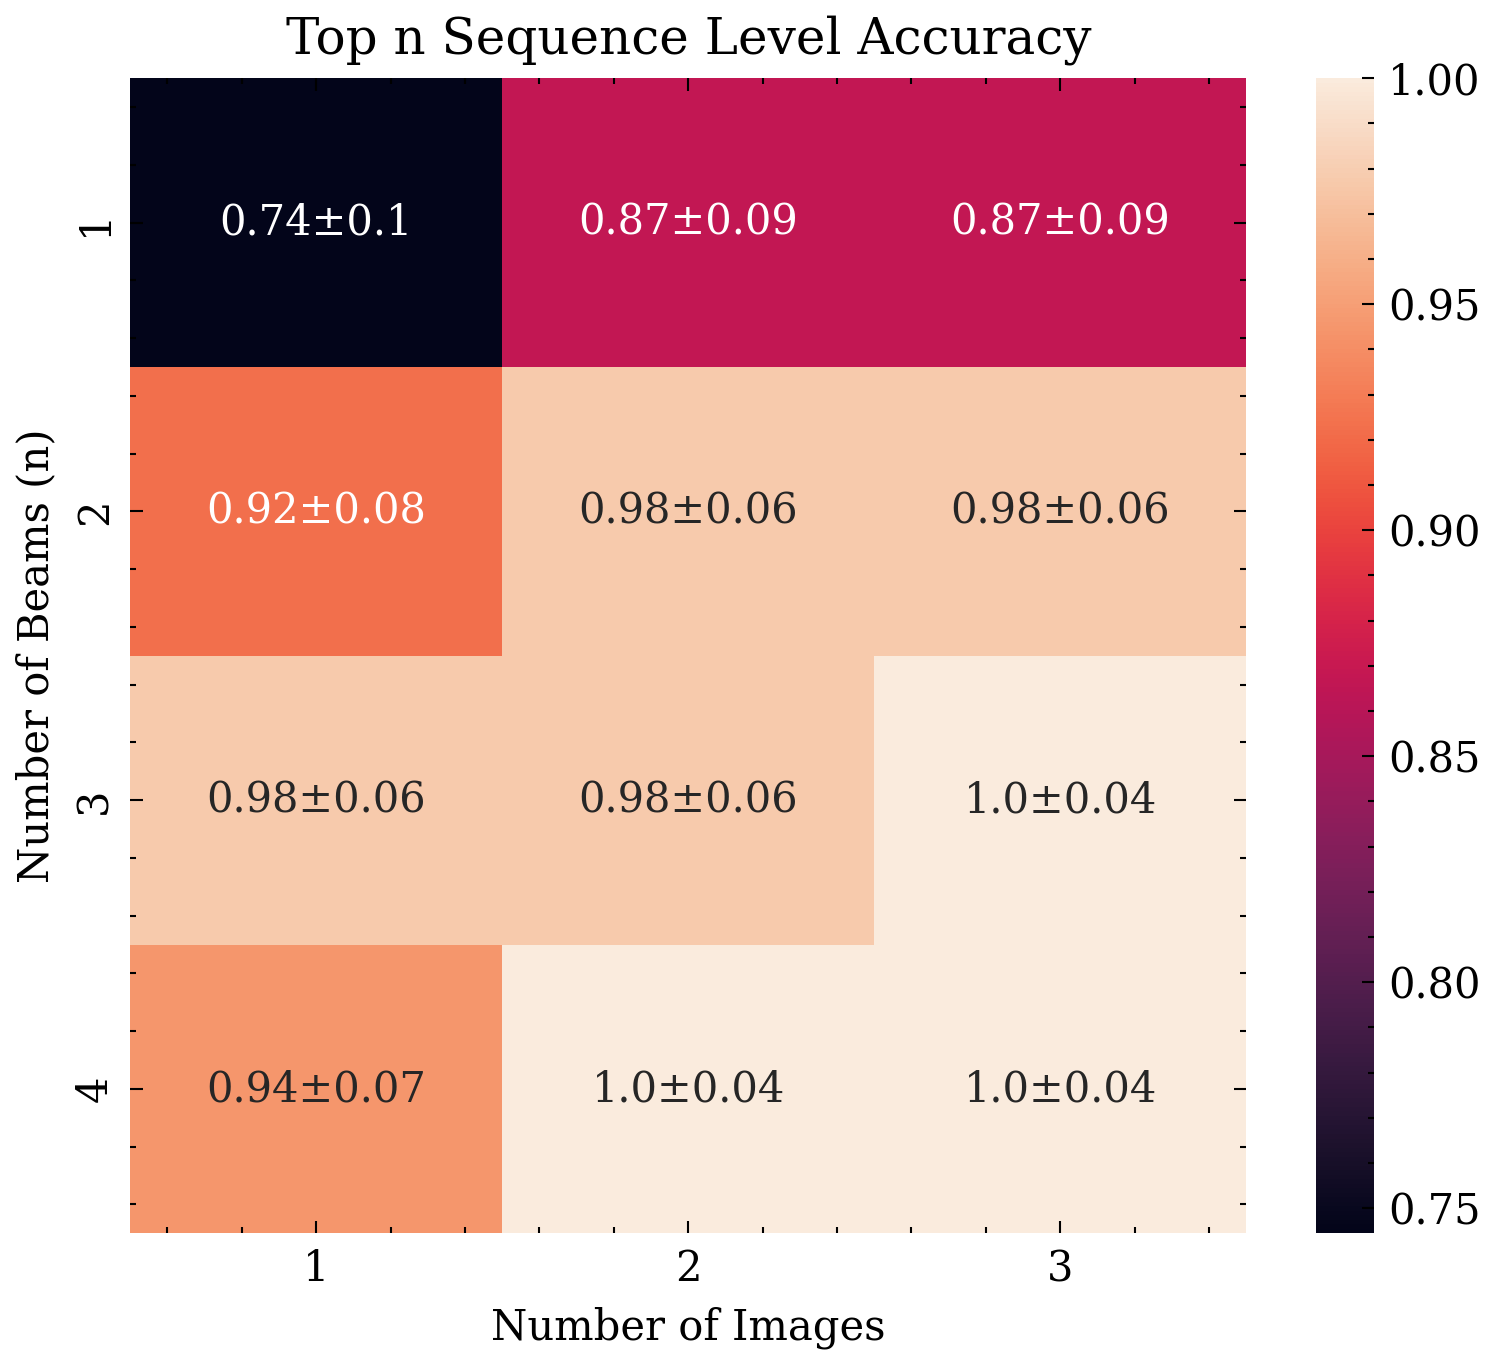
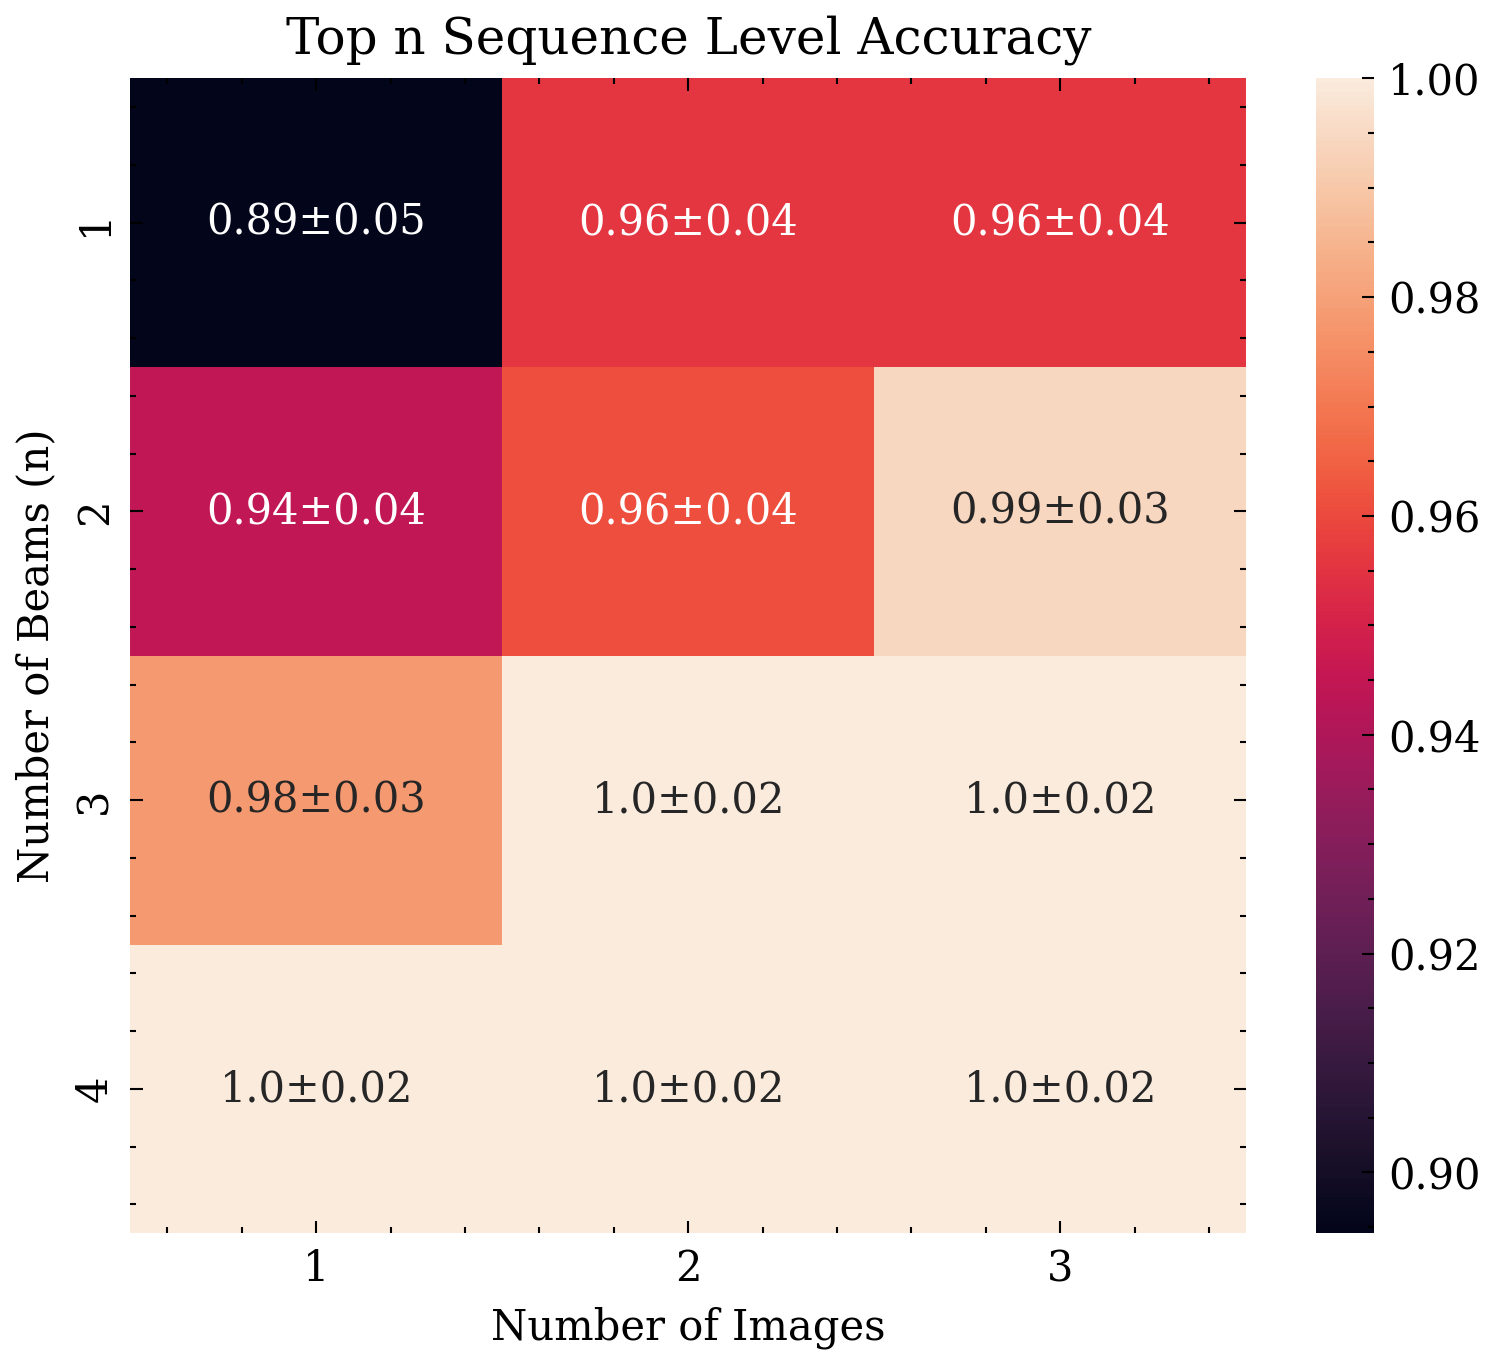
Updates from Overleaf

diff --git a/main.tex b/main.tex
@@ -53,9 +53,9 @@ To the best of our knowledge, there is no prior model that can convert a 3D mole
 \subsection{DECIMER.ai}
 In DECIMER.ai, the encoder is an EfficientNet-V2-M. EfficientNet is a type of convolutional neural network (CNN) with MBConv \autocite{tan_efficientnet:_2020} (a modified version of the inverted bottleneck from \autocite{mobilenet}) and Fused-MBConv \autocite{suyog_efficientnet-edgetpu:_2019} developed by training-aware neural architecture search (NAS). \autocite{swin_tran} \autocite{effv2} MBConvs have 1x1 point-wise and 3x3 depth-wise convolutional layers, which can yield better parameters and computational efficiency. \autocite{mobilenet} \autocite{effv2} However, they cannot fully utilize modern hardware accelerators. In Efficient-Net-V2, they proposed using regular 3x3 convolutional layers (Fused-MBConvs) to replace MBConvs for the early stages of the network. This results in better training time with small overheads of parameters and FLOPs. In an MBConv block used in Efficient-Net-V2, the image is first passed through a 1x1 convolutional layer to increase its channel numbers, then a squeeze and excitation (SE) block is used \autocite{hu_squeeze-and-excitation_2019}\autocite{tan_efficientnet:_2020}. SE blocks are shown to increase the performance of CNNs with slight computational overhead. \autocite{hu_squeeze-and-excitation_2019}. The SE block is followed by a depthwise 3x3 convolution and a 1x1 convolution, the latter decreases the channel counts to the same as input. In a Fused-MBConv, however, the depthwise convolution and the 1x1 convolution are replaced by a 3x3 convolution. \autocite{effv2} \autocite{mobilenet}
 
-The decoder in DECIMER.ai is a transformer model based on \autocite{attention_is_all_you_need}. It has four transformer encoder blocks and four transformer decoder blocks with right parallel attention heads. \autocite{decimer} The encoder of the transformer utilizes a multi-head self-attention block and an MLP (multilayer perceptron) to replace previous recurrent neural or convolutional layers. The decoder of the Transformer is auto-regressive, meaning the decoder of the model takes in the already generated sequence and predicts the next token. The generated sequence will be processed by a masked multi-head self-attention. The mask will prevent the model from attending tokens after $t$ when generating the $t$-th sequence. Then a cross-attention layer is applied that connects the input sequence and the generated sequence by using the output of the encoder as keys and values and output from the masked self-attention as the query. Then the output of the cross-attention is followed by an MLP layer. The encoder and decoder blocks are repeated for $N$ (In DECIMER.ai $N=4$) times each. After the last decoder block, the output goes through a linear and a softmax layer before output. Since attention does not consider position information, position encoding is added to the sequence for both input and generated sequences. The full transformer also uses residual connection across all the attention and MLP layers. After the addition of the residual connection, a layer normalization is used. A detailed architecture of the Transformer can be found in the original paper \autocite{attention_is_all_you_need}.
-% should i cite attention here
+The decoder in DECIMER.ai is a transformer model based on \autocite{attention_is_all_you_need}. It has four transformer encoder blocks and four transformer decoder blocks with right parallel attention heads. \autocite{decimer} The encoder of the transformer utilizes a multi-head self-attention block and an MLP (multilayer perceptron) to replace previous recurrent neural or convolutional layers. The decoder of the Transformer is auto-regressive, meaning the decoder of the model takes in the already generated sequence and predicts the next token. The generated sequence will be processed by a masked multi-head self-attention. The mask will prevent the model from attending tokens after $t$ when generating the $t$-th sequence. Then a cross-attention layer is applied that connects the input sequence and the generated sequence by using the output of the encoder as keys and values and output from the masked self-attention as the query. Then the output of the cross-attention is followed by an MLP layer. The encoder and decoder blocks are repeated for $N$ (In DECIMER.ai $N=4$) times each. After the last decoder block, the output goes through a linear and a softmax layer before output. Since attention does not consider position information, position encoding is added to the sequence for both input and generated sequences. The full transformer also uses residual connection across all the attention and MLP layers. After the addition of the residual connection, a layer normalization is used. A detailed architecture of the Transformer can be found in the original paper \autocite{attention_is_all_you_need}. 
 
+Although DeepSMILES \cite{oboyle_deepsmiles:_2018} has been proposed for machine learning models to generate more valid identifies, their pervous work \cite{rajan_performance_2022} has shown that SMILES actually lead to the most accurate identifiers. Thus, they used SMILES instead of DeepSMILES in DECIMER.ai. \cite{decimer}  
 %how it trained on real data and handwritten 
 \subsection{Swin-OCSR}
 In Swin-OCSR, the encoder (they referred to as "backbone" in their paper) is built on the Swin Transformer. The image is cut into patches with each path having a size of $4 \times 4$ pixels. Then each patch is flattened into and treated as a token which is a 48-dim vector. Then a linear projection layer is applied and each token is into a 192-dim space. 
@@ -65,7 +65,7 @@ Then 4 Swin-Transformer (Shifted Window Transformer) \autocite{swin_tran} blocks
 % Before the tensor ($H_i \times W_i \times C_i$) gets passed to the next Swin Transformer block, a patch merging operation is performed to capture hierarchical information. During path merging, neighbouring $2 \times 2$ patches are merged and the tokens are concatenated. This results in $\frac{1}{4}$ of the number of patches and each $4C_i$ feature for each token. Then the dimensions of each token are reduced to $2C_i$. In Swin-OCSR, 4 Swin Transformer blocks are used; the last Swin Transformer block outputs a tensor with shape $\frac{H}{32} \times \frac{H}{32} \times 1536$. This tensor is flattened across the spatial axes and projects the last axis into 256 dimensions. 
 
 %how it trained using a special loss function  
-
+% deepsmiles
 
 \section{Method}
 \subsection{Synthetic Dataset}
@@ -94,36 +94,22 @@ Figure \ref{fig:example} shows an example of rendered and real images. These ima
 \subsection{Machine Learning Model} 
 \begin{figure}
     \centering
-    \includegraphics{}
-    \caption{Caption}
-    \label{fig:enter-label}
+    \includegraphics[width=0.9\textwidth]{arch}
+    \caption{Model Architecture}
+    \label{fig:arch}
 \end{figure}
-Our model architecture shown in Fig \ref{arch} and  is very similar to the ones used in DECIMER.ai \autocite{decimer} and Swin-OCSR \autocite{swinocsr}. The encoder we used is the EfficientNet-V2-S \autocite{effv2} from torchvision \autocite{torchvision2016} with intinal parameters that trained on ImageNet-1k \autocite{imagenet}. We extracted all the convolution layers from the EffcientNet-V2-S to get a feature map with size $1280\times13\times13$  for each batch. This feature map is then flatten into 2D shape $1280\times169$, re-permuted to sequence-like shape $169\times1280$, projected to 256-dimension to match the input shape of SwinOCSR decoder, and passed through a dropout layer. The tensor is then feeded into our decoder. which is adapted from Swin-OCSR \autocite{swinocsr}. 
+Our model architecture shown in Fig \ref{fig:arch} and  is very similar to the ones used in DECIMER.ai \autocite{decimer} and Swin-OCSR \autocite{swinocsr}. The encoder we used is the EfficientNet-V2-S \autocite{effv2} from torchvision \autocite{torchvision2016} with intinal parameters that trained on ImageNet-1k \autocite{imagenet}. We extracted all the convolution layers from the EffcientNet-V2-S to get a feature map with size $1280\times13\times13$  for each batch. This feature map is then flatten into 2D shape $1280\times169$, re-permuted to sequence-like shape $169\times1280$, projected to 256-dimension to match the input shape of SwinOCSR decoder, and passed through a dropout layer. The tensor is then feeded into our decoder. which is adapted from Swin-OCSR \autocite{swinocsr}. 
 
 
 We pretrain our model on the synthetic dataset with AdamW \cite{adamw} and exponential learning rate scheduler. Hyperparameters are adjusted manuually and the training is stoped when token-level accuracy converges. 
 
-We then fine tune our model on the real-world dataset. With the fixed validation set, we did a hyperparamater sweep using Weight and Bias \autocite{wandb} to select models with highest validation token-level accuracy. Hyper parameter search space is shown in Table \ref{tab:hyper}.
-
-\begin{table}[]
-    \centering
-    \begin{tabular}{|c|c|}
-    \hline
-     Hyperparameter Name  & Range  \\ \hline
-      Learning Rate   &  0.0005-0.001 \\
-      Learning Rate Decay & 0.95-1\\
-      Epoch &  1-4\\
-      Dropout between encoder and decoder &  0.0-0.5\\\hline
-    \end{tabular}
-    \caption{Hyper Parameter Search Space}
-    \label{tab:hyper}
-\end{table}
+We then fine tune our model on the real-world dataset. With the fixed validation set, we did a hyperparamater sweep using Weight and Bias \autocite{wandb} to select models with highest validation token-level accuracy. Then the hyper-parameter is furture finetuned manually. 
 
 \subsection{Beam search and Mutli-image input}
 Beam search is a way to increase the accuracy of autoregressive models. \cite{yang_breaking_2018} \cite{zhang_beam_2024} 
-
+We also hyprothesis that multiple images input will increase the accuracy of the model, shich has shown in pervious research \cite{sun_multi-input_2017}. In \cite{sun_multi-input_2017}, the authors use ``early fusion" method where feature maps from 3 different images are concatenated on channel axis in the early stage of network. However, this method requires modification of the backbone network and the number of images in this method are fixed. Instead, our method passes individual images through the entire network (including the EfficientNet-V2-S and SwinOCSR decoder) and average the softmax distribution of tokens.  
 \section{Results}
-We tested how the perfomance of our model behevious with different beam size and number of images on a subset of validation set. 
+We tested how the perfomance of our model behevious with different beam size and number of images on a subset of validation set with only molecules that has at least 5 images. 
 \begin{figure}
     \centering
     \includegraphics[width=0.3\textwidth]{top1.png}
@@ -134,13 +120,15 @@ We tested how the perfomance of our model behevious with different beam size and
 
 
 compare the accuracy of different types of molecules
+compare with hand written OCSR 
 \section{Conclusion}
 \section{Demo}
 We deployed the model on our server \footnote{\url{http://file.weasoft.com:8888}} with a frontend and open source our model on github\footnote{\url{https://github.com/weathon/3d2smile}}. 
 \section{Limation and Future Work}
 In this project, we did not attempt to recognize stereochemical information such as chirality and E/Z structure. However, these are important concepts for students to understand and being able to show these is one of the key characteristics and benefits of 3D models. 
 % Additionally, we used multi-image input to increase the accuracy of the model by doing answer voting on the generated sequence. However, ensembling the probability distribution for each token might be a more advanced and better approach, further experiments are needed to select the best approach.
-Our real-world dataset is limited by time and budget, a larger dataset could increase the accuracy and robustness of the model. It could also make 3d stereochemical information more recognizable.
+Our real-world dataset is limited by time and budget, a larger dataset could increase the accuracy and robustness of the model. 
+%It could also make 3D stereochemical information more recognizable. gpt?
 This project only focused on the technical side of the problem and did not test how well this application would be in classroom settings, further chemical education studies are needed to determine its effectiveness in education. 
 Traditional molecular models have some limitations, such as they might be misleading and let students think energy is needed to create bonds\autocite{snatoms}. Train a machine learning model on alternative molecular models, such as Snatoms\autocite{snatoms}, might be able to provide better education values.
 \section*{Acknowledgement}
